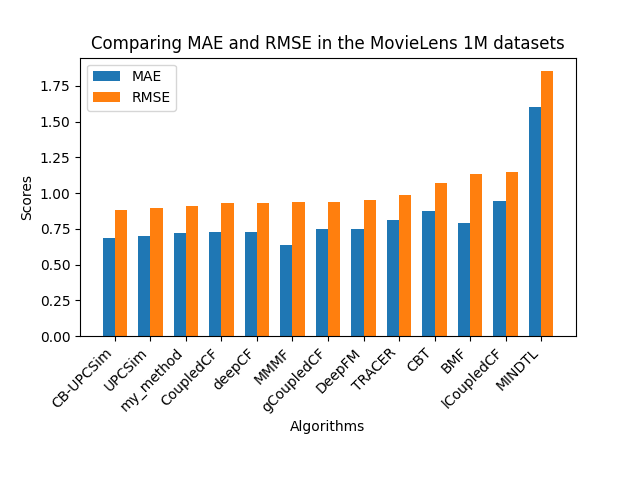
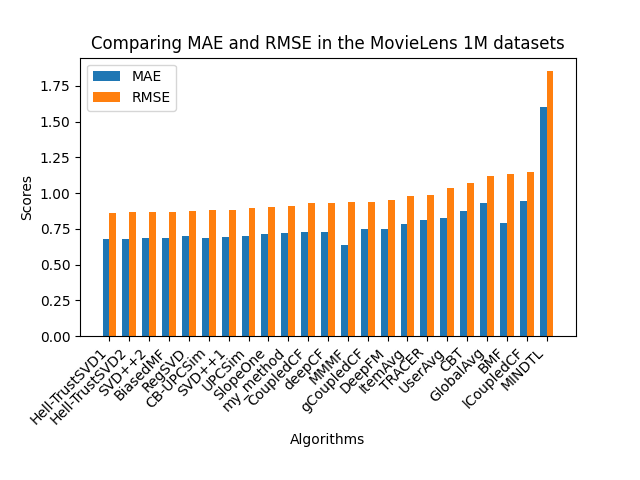
Added new results for comparison.

Changed region(s): [[0.0312, 0.1562, 0.875, 0.9375]]

diff --git a/comparison.py b/comparison.py
@@ -14,6 +14,7 @@ class Comparison:
         # https://www.researchgate.net/publication/335440931_A_Generic_Framework_for_Learning_Explicit_and_Implicit_User-Item_Couplings_in_Recommendation/figures?lo=1
 
         # Movielens 1M
+        # https://www.researchgate.net/publication/311430762_Extracting_Implicit_Social_Relation_for_Social_Recommendation_Techniques_in_User_Rating_Prediction
         # https://www.researchgate.net/publication/358451271_A_hinge-loss_based_codebook_transfer_for_cross-domain_recommendation_with_non-overlapping_data
         # https://www.mdpi.com/2073-431X/10/10/123
         # https://www.researchgate.net/publication/335440931_A_Generic_Framework_for_Learning_Explicit_and_Implicit_User-Item_Couplings_in_Recommendation/figures?lo=1
@@ -30,9 +31,12 @@ class Comparison:
         })
         self.__1m_table = pd.DataFrame({
             'Algorithm': ['MMMF', 'MINDTL', 'TRACER', 'CBT', 'BMF', 'DeepFM', 'deepCF', 'lCoupledCF', 'gCoupledCF',
-                          'CoupledCF', 'UPCSim', 'CB-UPCSim'],
-            'MAE': [0.6389, 1.5984, 0.8145, 0.8725, 0.7929, 0.7452, 0.7264, 0.9462, 0.7467, 0.7285, 0.6993, 0.6857],
-            'RMSE': [0.9349, 1.8545, 0.9892, 1.0729, 1.1334, 0.9504, 0.9304, 1.1484, 0.9406, 0.9295, 0.8921, 0.8784]
+                          'CoupledCF', 'UPCSim', 'CB-UPCSim', 'GlobalAvg', 'UserAvg', 'ItemAvg', 'SlopeOne', 'RegSVD',
+                          'BiasedMF', 'SVD++1', 'SVD++2', 'Hell-TrustSVD1', 'Hell-TrustSVD2'],
+            'MAE': [0.6389, 1.5984, 0.8145, 0.8725, 0.7929, 0.7452, 0.7264, 0.9462, 0.7467, 0.7285, 0.6993, 0.6857,
+                    0.933, 0.828, 0.782, 0.711, 0.698, 0.688, 0.694, 0.685, 0.675, 0.676],
+            'RMSE': [0.9349, 1.8545, 0.9892, 1.0729, 1.1334, 0.9504, 0.9304, 1.1484, 0.9406, 0.9295, 0.8921, 0.8784,
+                     1.117, 1.035, 0.979, 0.902, 0.877, 0.869, 0.879, 0.866, 0.861, 0.865]
         })
         if self.__selected_ds is Dataset.movielens_100k.value[0]:
             self.title_text = '100K'
